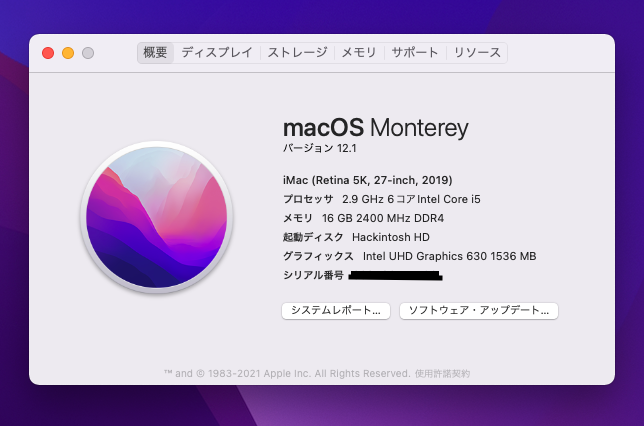
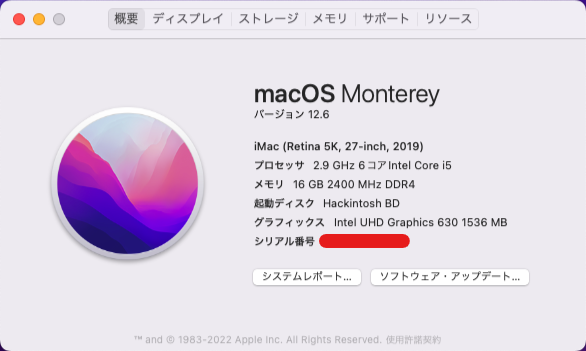
Update

diff --git a/README.md b/README.md
@@ -1,7 +1,7 @@
 # Hackintosh for Deskmini 310
 
-+ OS : macOS Monterey 12.5.1
-+ Boot Loader : Open Core v0.8.4
++ OS : macOS Monterey 12.6
++ Boot Loader : Open Core v0.8.5
 + UEFI Version : P4.40
 
 ![Skin](misc/Hackintosh.png)
